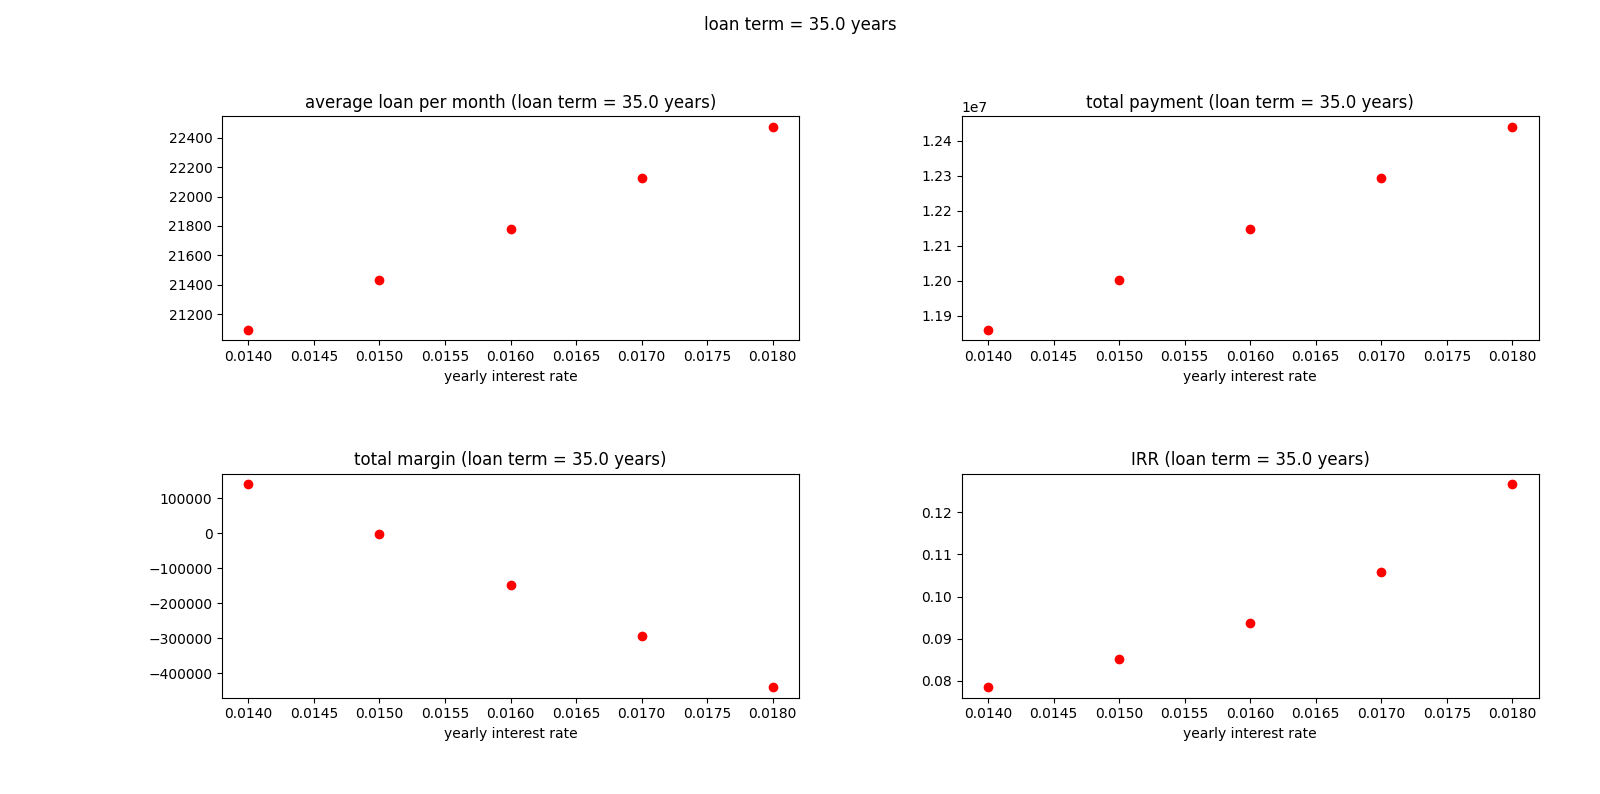
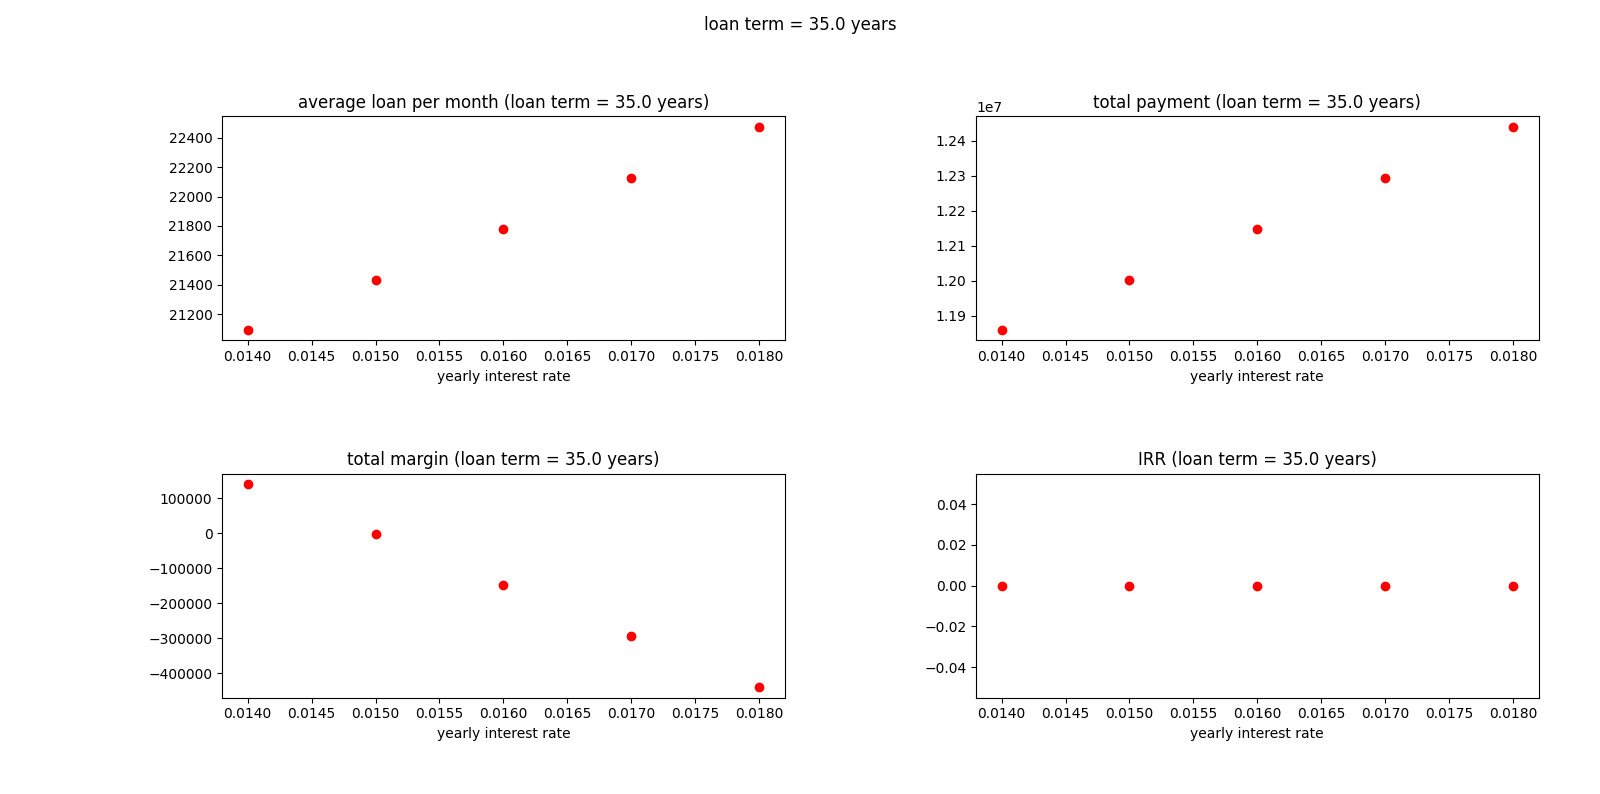
prevent complex values

diff --git a/buy_vs_rent_and_invest.py b/buy_vs_rent_and_invest.py
@@ -104,7 +104,10 @@ def IRR(R, N):
         the IRR
         
     '''
-    return R**(1 / N) - 1
+    if R > 0.:
+        return R**(1 / N) - 1
+    else:
+        return 0.
 
 
 ### Plot and visualize
